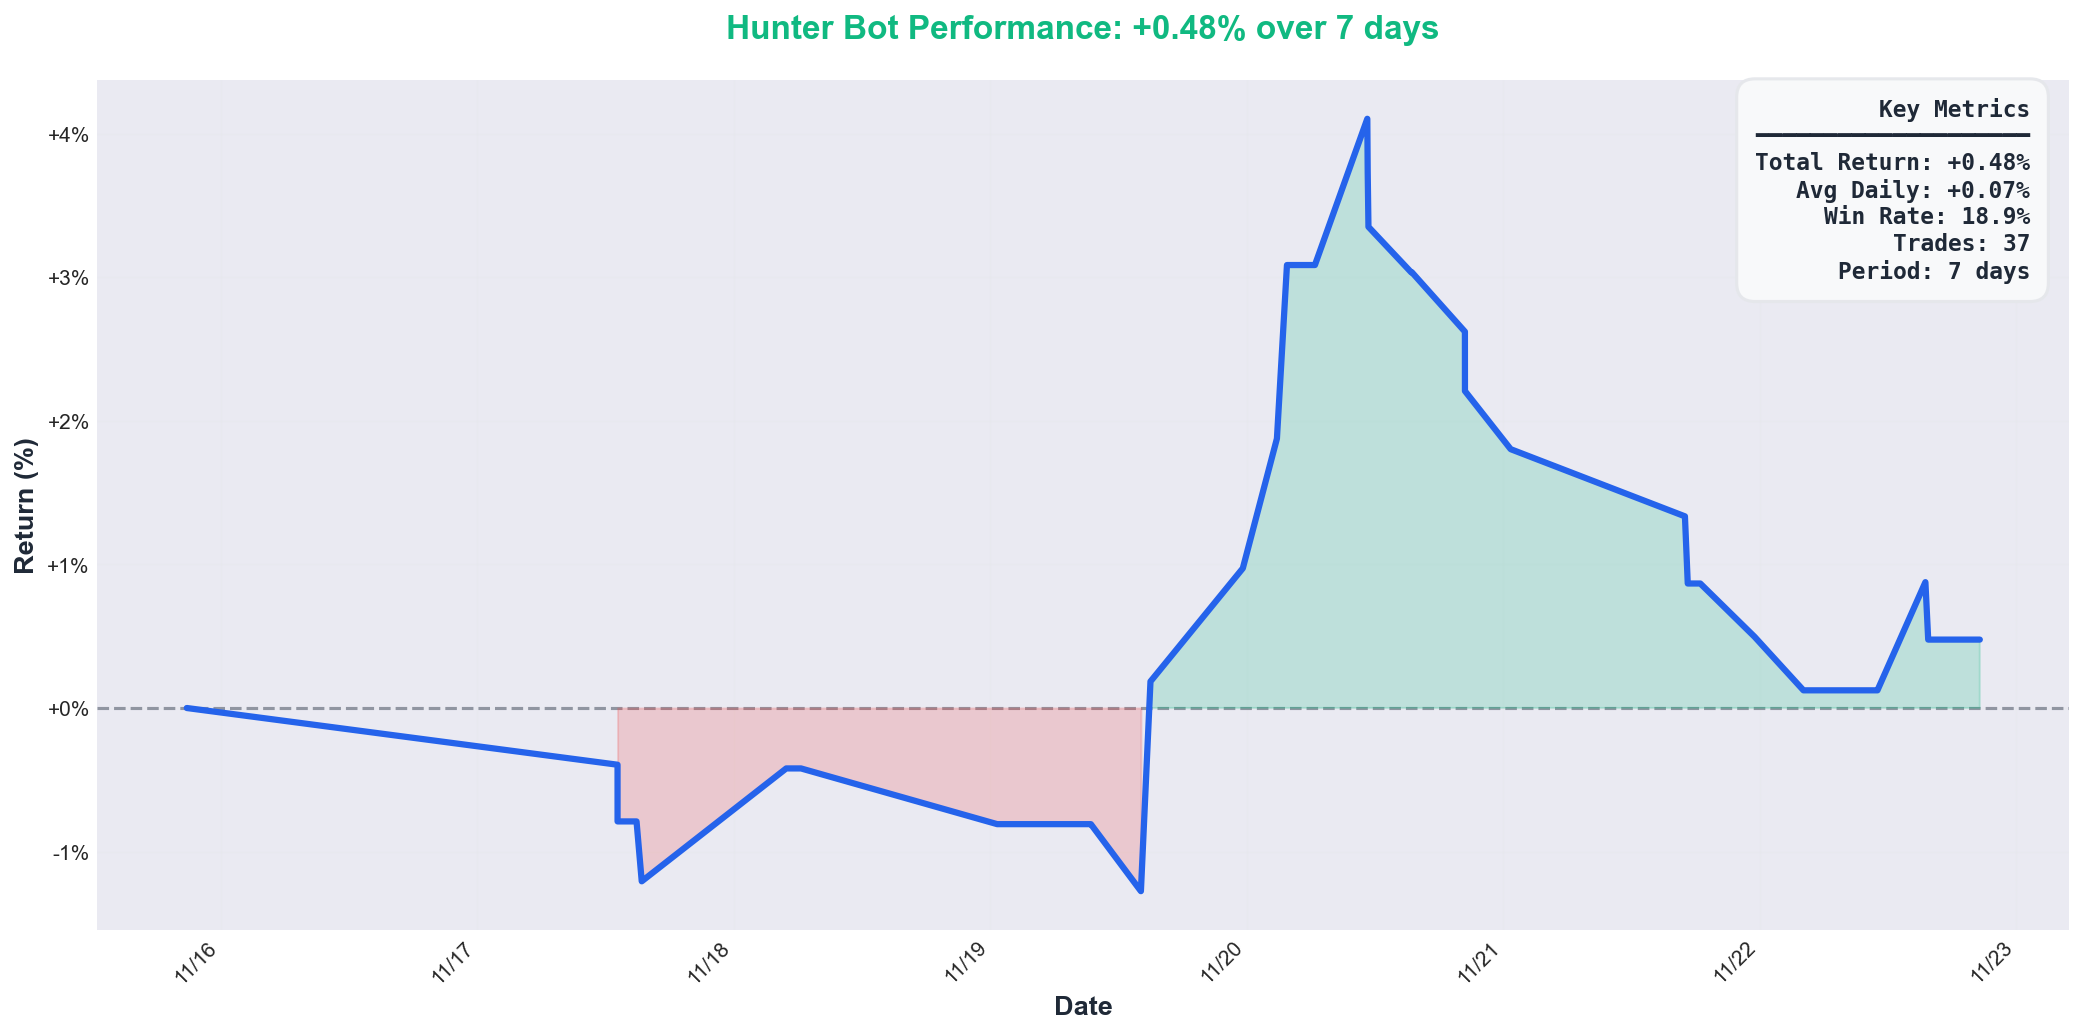
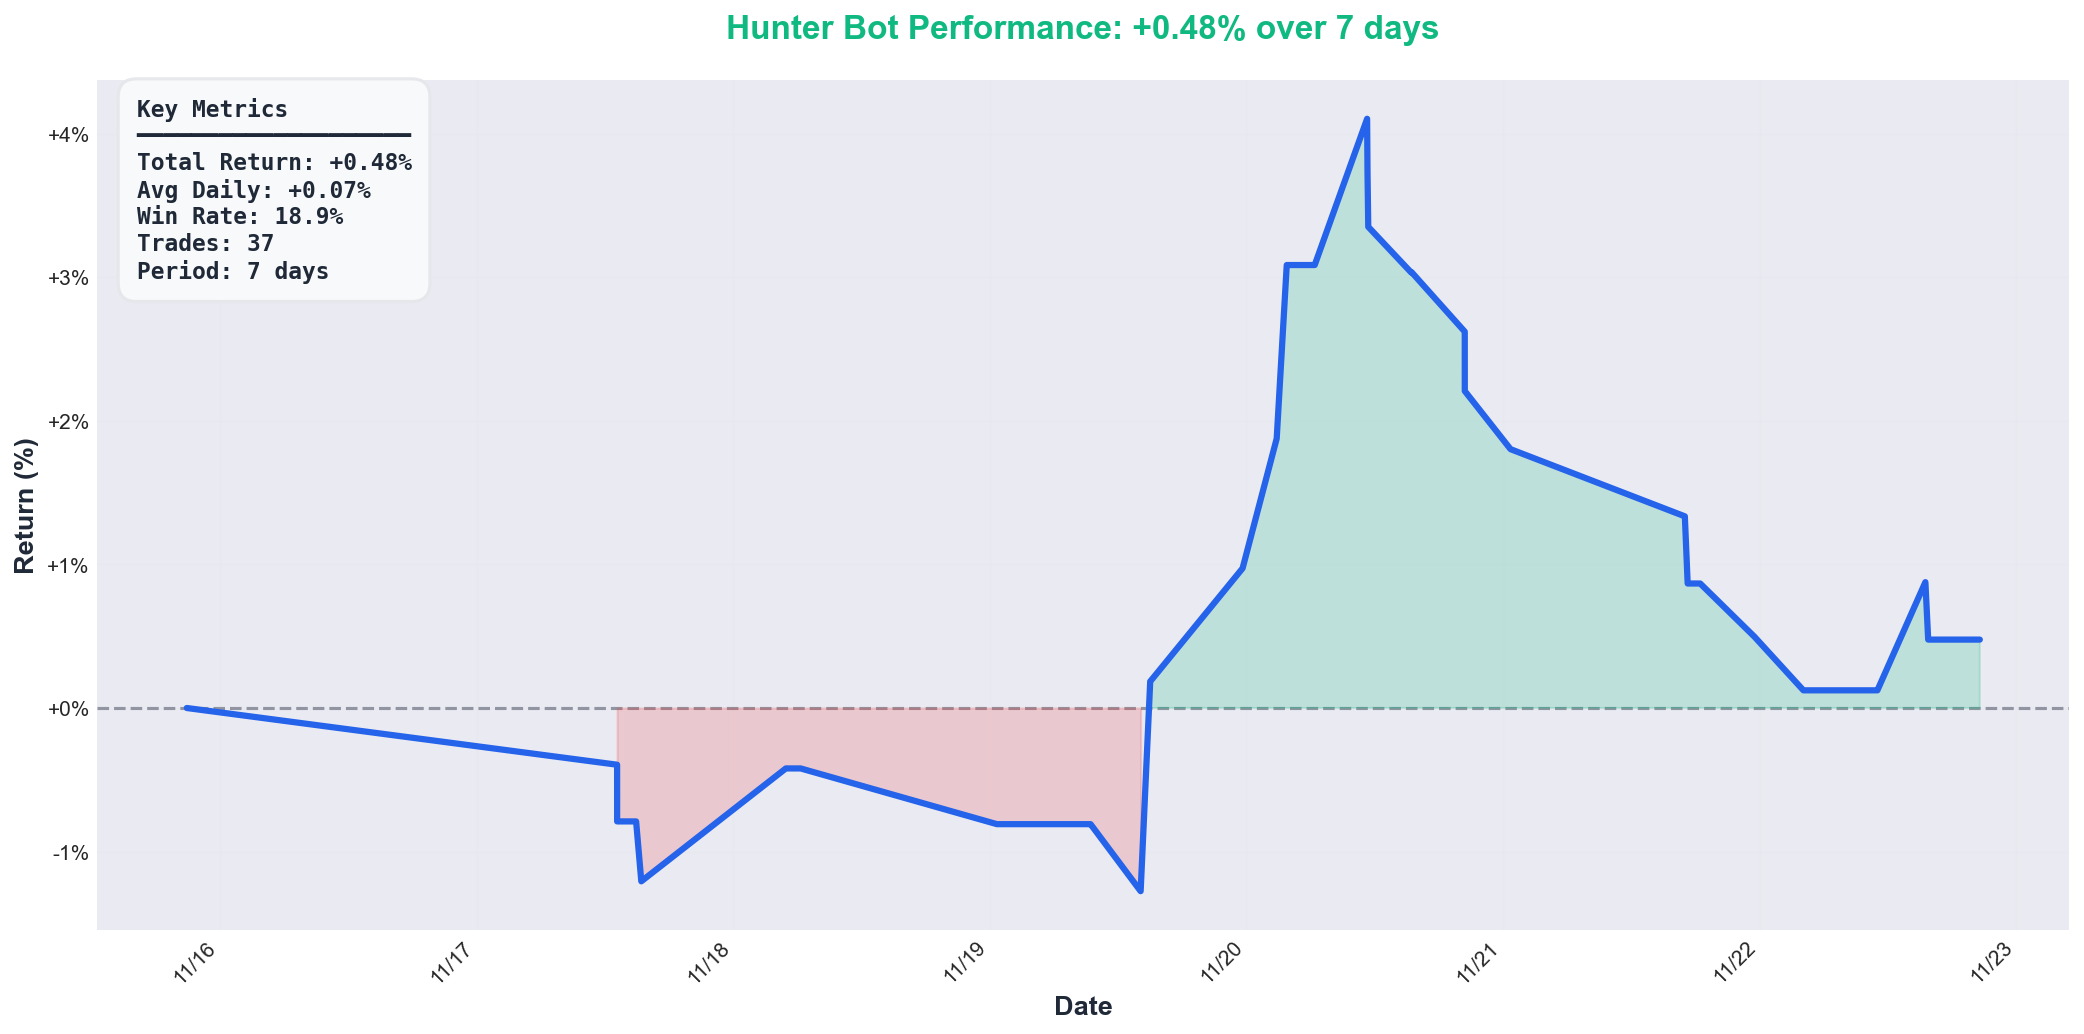
Move key metrics box to top-left of performance charts

Changed region(s): [[0.0624, 0.0928, 0.1871, 0.2785], [0.8421, 0.0928, 0.9669, 0.2785]]

diff --git a/scripts/plot_wallet_value.py b/scripts/plot_wallet_value.py
@@ -413,9 +413,9 @@ Win Rate: {win_rate:.1f}%
 Trades: {total_trades}
 Period: {days} days"""
     
-    # Position stats box in upper right
-    ax.text(0.98, 0.98, stats_text, transform=ax.transAxes,
-            fontsize=11, verticalalignment='top', horizontalalignment='right',
+    # Position stats box in upper left
+    ax.text(0.02, 0.98, stats_text, transform=ax.transAxes,
+            fontsize=11, verticalalignment='top', horizontalalignment='left',
             family='monospace', fontweight='bold',
             bbox=dict(boxstyle='round,pad=0.8', facecolor='#F9FAFB', 
                      edgecolor='#E5E7EB', linewidth=1.5, alpha=0.95),
